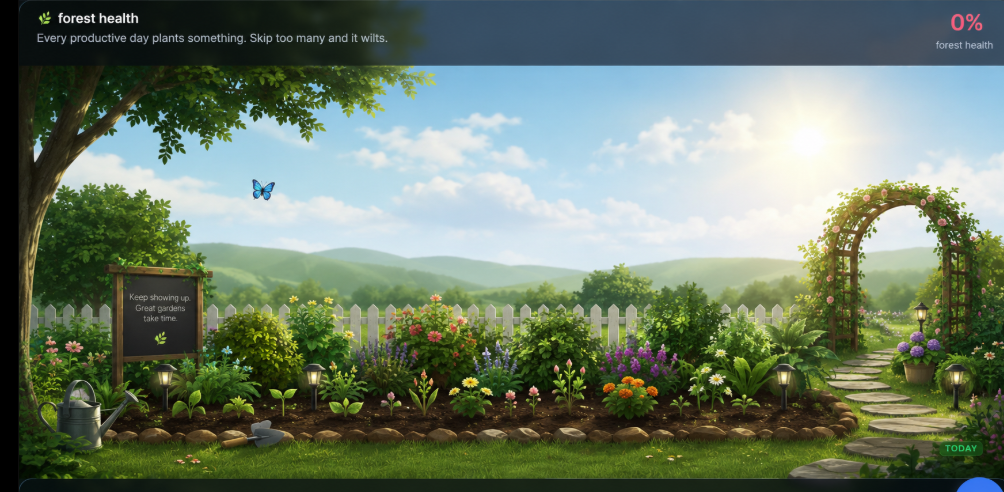
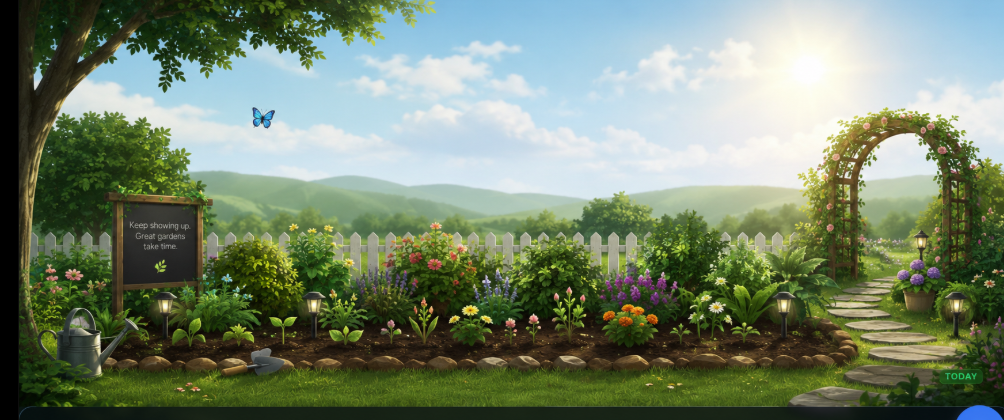
Life Garden: crop header from backdrop image, anchor plants to soil, switch to sunflower for full bloom

diff --git a/src/components/LifeGarden.jsx b/src/components/LifeGarden.jsx
@@ -9,7 +9,7 @@ const STAGE_EMOJI = {
   2:  '🌿',
   3:  '🪴',
   4:  '🌳',
-  5:  '🌸',
+  5:  '🌻',
   '-1': '🥀',
 }
 
@@ -87,21 +87,21 @@ export default function LifeGarden() {
             background: 'radial-gradient(circle at 50% 40%, rgba(254,243,199,0.35) 0%, transparent 60%)',
             animation: 'sunPulse 5s ease-in-out infinite' }} />
 
-        {/* live plant grid — positioned over the soil bed in the painted image (~68–96% Y) */}
+        {/* live plant grid — anchored to the soil bed so plants grow FROM the ground */}
         <div className="absolute pointer-events-auto"
-          style={{ left: '11%', right: '19%', top: '70%', bottom: '4%' }}>
-          <div className="h-full grid grid-cols-10 sm:grid-cols-12 grid-rows-5 gap-x-1 gap-y-1">
+          style={{ left: '11%', right: '19%', top: '78%', bottom: '2%' }}>
+          <div className="h-full grid grid-cols-10 sm:grid-cols-12 grid-rows-2 gap-x-1 gap-y-0 items-end">
             {plants.map((p, i) => {
               const isToday = i === plants.length - 1
               const emoji = STAGE_EMOJI[p.score]
               const seed = (i * 37) % 100
               const swayDur = 3 + (seed / 100) * 3
               const swayDelay = (seed / 50)
-              const size = p.score === 5 ? 'text-2xl sm:text-3xl'
-                : p.score === 4 ? 'text-xl sm:text-2xl'
-                : p.score === 3 ? 'text-lg sm:text-xl'
-                : p.score === 2 ? 'text-base sm:text-lg'
-                : p.score === 1 ? 'text-sm sm:text-base'
+              const size = p.score === 5 ? 'text-xl sm:text-2xl'
+                : p.score === 4 ? 'text-lg sm:text-xl'
+                : p.score === 3 ? 'text-base sm:text-lg'
+                : p.score === 2 ? 'text-sm sm:text-base'
+                : p.score === 1 ? 'text-xs sm:text-sm'
                 : 'text-xs'
               return (
                 <div key={p.date}
@@ -117,7 +117,7 @@ export default function LifeGarden() {
                         transformOrigin: 'bottom center',
                         animation: p.score === -1 ? 'none' : `plantSway ${swayDur}s ease-in-out ${swayDelay}s infinite`,
                         filter: p.score === 5
-                          ? 'drop-shadow(0 0 6px rgba(244,114,182,0.7)) drop-shadow(0 2px 3px rgba(0,0,0,0.4))'
+                          ? 'drop-shadow(0 0 6px rgba(251,191,36,0.75)) drop-shadow(0 2px 3px rgba(0,0,0,0.4))'
                           : 'drop-shadow(0 2px 3px rgba(0,0,0,0.45))',
                       }}
                     >{emoji}</span>
@@ -151,10 +151,10 @@ export default function LifeGarden() {
       </div>
 
       <div className="px-4 py-3 flex flex-wrap gap-3 text-[11px] text-dim border-t border-white/6">
-        <span>🌱 sprout → 🌿 herb → 🪴 growing → 🌳 tree → 🌸 perfect day</span>
+        <span>🌱 sprout → 🌿 herb → 🪴 growing → 🌳 tree → 🌻 perfect day</span>
         <span className="ml-auto flex flex-wrap gap-3">
           <span>🌳 <span className="font-mono text-mint">{alive}</span> growing</span>
-          {flowering > 0 && <span>🌸 <span className="font-mono text-pink-400">{flowering}</span> in bloom</span>}
+          {flowering > 0 && <span>🌻 <span className="font-mono text-pink-400">{flowering}</span> in bloom</span>}
           {wilted > 0 && <span>🥀 <span className="font-mono text-red">{wilted}</span> wilted</span>}
         </span>
       </div>
